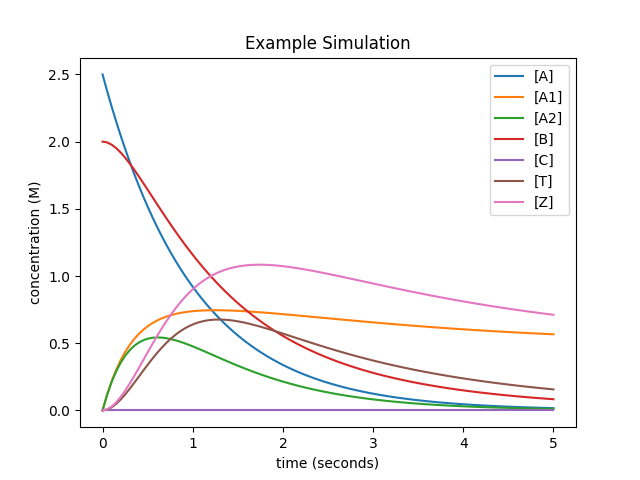
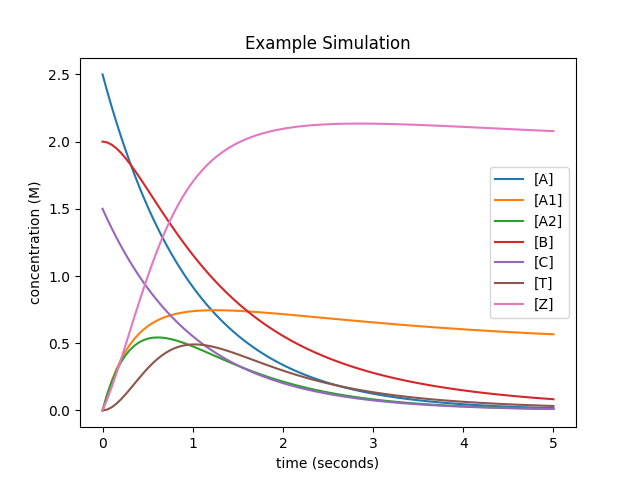
Created proper Species class & refactored
Deprecated Expression.is_species

Moved Expression & Species into reaction.py,
to avoid circular imports

diff --git a/crn/reaction.py b/crn/reaction.py
@@ -24,7 +24,23 @@ class Reaction:
         coeff: float
             The rate constant of the reaction
     """
-    def __init__(self, reactants, products, k):
+    def __init__(self, reactants, products, k=1):
+        if type(reactants) not in (Species, Expression):
+            raise ValueError(
+                "Attempted construction of reaction with type of reactants "
+                f"as {type(reactants)}. Type of reactants must be Species "
+                "or Expression")
+        if type(products) not in (Species, Expression):
+            raise ValueError(
+                "Attempted construction of products with type of products "
+                f"as {type(products)}. Type of products must be Species "
+                "or Expression")
+
+        if type(reactants) is Species:
+            reactants = Expression({reactants.name: 1})
+        if type(products) is Species:
+            products = Expression({products.name: 1})
+
         self.reactants = reactants
         self.products = products
         self.coeff = float(k)
@@ -92,4 +108,141 @@ class Reaction:
 
         return self.coeff * reduce(operator.mul,
                 map(flux_part, self.reactants.species.items()))
+
+
+class Expression:
+    """
+    Class used for very basic symbolic manipulation of left/right hand
+    side of stoichiometric equations. Not very user friendly; users should
+    just use the `species` functions and manipulate those to get their
+    reactions.
+
+    args:
+        species: Dict[str, int]
+            represents species (string names) and their coefficients (ints)
+            all added together.
+
+    properties:
+        species: Dict[str, int]
+            represents species (string names) and their coefficients (ints)
+            all added together. The same as the argument passed to the
+            constructor
+    """
+    def __init__(self, species):
+        self.species = species
+
+    def __add__(self, other):
+        if type(other) is Expression:
+            species_copy = self.species.copy()
+            for s, c in other.species.items():
+                if s not in species_copy:
+                    species_copy[s] = 0
+                species_copy[s] += c
+            return Expression(species_copy)
+
+        return NotImplemented
+
+    def __rmul__(self, coeff):
+        if type(coeff) is int:
+            species_copy = {}
+            for s, c in self.species.items():
+                species_copy[s] = c * coeff
+
+            return Expression(species_copy)
+
+        return NotImplemented
+
+    __mul__ = __rmul__
+
+    def __rshift__(self, expr):
+        return Reaction(self, expr)
+
+    def __str__(self):
+        return ' + '.join(
+                map(lambda i: f"{i[1] if i[1] != 1 else ''}{i[0]}",
+                    self.species.items()))
+
+    def __repr__(self):
+        return ' + '.join(
+                map(lambda i: f"{i[1] if i[1] != 1 else ''}{i[0]}",
+                    self.species.items()))
+
+    def get_species(self):
+        """
+        Returns the names of the species in this expression, not their
+        coefficients.
+        """
+        return set(self.species.keys())
+
+
+class Species:
+    def __init__(self, name):
+        self.name = name
+
+    def __add__(self, other):
+        if type(other) is Expression:
+            return other + Expression({self.name: 1})
+        elif type(other) is Species:
+            return Expression({self.name: 1, other.name: 1})
+
+        return NotImplemented
+
+    def __radd__(self, other):
+        if type(other) is Expression:
+            return other + Expression({self.name: 1})
+        elif type(other) is Species:
+            return Expression({self.name: 1, other.name: 1})
+
+        return NotImplemented
+
+    def __rshift__(self, other):
+        return Reaction(self, other)
+
+    def __mul__(self, other):
+        if type(other) is int:
+            return Expression({self.name: other})
+
+        return NotImplemented
+
+    def __rmul__(self, other):
+        if type(other) is int:
+            return Expression({self.name: other})
+
+        return NotImplemented
+
+    def __repr__(self):
+        return self.name
+
+    def __str__(self):
+        return self.name
+
+def species(species):
+    """
+    Create a list of Species (Single species Expressions).
+
+    args:
+        species: str
+            A space-seperated string representing the names of the species
+            being created
+
+    This is normally used like this:
+
+        x, y, z = species("X Y Z")
+        rxn = x + y >> z
+        ...
+
+    The names MUST be valid Python identifiers: "X0" is valid but "0X" is not.
+
+    The name 'nothing' refers to a Species which will always have a
+    concentration of 1. This is useful for spontaneous decay or creation of
+    species. For example,
+
+        x, y, nothing = species("X Y nothing")
+
+        sys = CRN(
+            x + y >> nothing,
+            nothing >> x,
+            nothing >> y)
+    """
+    return map(Species, species.split())
 

diff --git a/crn/crn.py b/crn/crn.py
@@ -1,6 +1,6 @@
 import numpy as np
 
-from crn import Expression, Simulation
+from crn import Species, Simulation
 from random import random
 from scipy.integrate import odeint
 
@@ -47,14 +47,18 @@ class CRN:
         Returns the symbolic representation for the rate law of species `s`.
 
         args:
-            s: Species
+            s: Union[Species, str]
                 the species whose rate law in the CRN `self` is desired.
+                `s` can either be an instance of the Species object or
+                the string name of the Species.
         """
-        if type(s) is Expression:
-            if not s.is_species():
-                raise ValueError(
-                        "rate_law_for_species called on complex expression")
-            s, *_ = s.species.keys()
+        if type(s) not in (str, Species):
+            raise ValueError("rate_law_for_species called on non-species. "
+                             "parameter must be a species name (str) or a "
+                             "Species instance.")
+
+        if type(s) is Species:
+            s = species.name
 
         return sum(rxn.net_production(s) * rxn.flux() for rxn in self.system)
 
@@ -99,16 +103,13 @@ class CRN:
         conc_temp = {}
 
         for s, c in conc.items():
-            if type(s) is Expression:
-                if not s.is_species():
-                    raise ValueError("concentrations must only be for "
-                            "species, not complex expressions")
-                s, *_ = s.species.keys()
+            if type(s) not in (str, Species):
+                raise ValueError("CRN.simulate: initial concentrations "
+                                 f"dictionary got a key with type {type(s)}. "
+                                 "Key type should be Species or str.")
 
-            elif type(s) is not str:
-                raise ValueError(
-                    "concentrations must have key type 'str' or 'Expression'"
-                    f" not '{type(s)}'")
+            if type(s) is Species:
+                s = s.name
 
             conc_temp[s] = c
 

diff --git a/crn/simulation.py b/crn/simulation.py
@@ -1,4 +1,4 @@
-from crn import Expression
+from crn import Species
 
 class Simulation:
     """
@@ -22,12 +22,14 @@ class Simulation:
         self.sim = sim
 
     def __getitem__(self, s):
-        if type(s) is Expression:
-            if not s.is_species():
-                raise ValueError(
-                        "can't get simulation time series of complex "
-                        f"expression {item}")
-            s, *_ = s.species.keys()
+        if type(s) not in (str, Species):
+            raise ValueError(
+                "Simulation.__getitem__: tried to get item of non-species. "
+                "Type of key must be Species or str. The type of the key "
+                f"passed was {type(s)}")
+
+        if type(s) is Species:
+            s = s.name
 
         return self.sim[s]
 

diff --git a/crn/examples/basic_example.py b/crn/examples/basic_example.py
@@ -28,7 +28,7 @@ sys = CRN(
 # concentrations that are omitted are assumed to be zero
 # t is an optional parameter for how far to carry out the simulation.
 # if it is omitted, it's defaulted to 20.
-sim = sys.simulate({a: 2.5, b: 2.0}, t=5)
+sim = sys.simulate({a: 2.5, b: 2.0, c: 1.5}, t=5)
 
 # you can access the specific time series of each species by accessing
 # `sim` like you would a dictionary

diff --git a/crn/__init__.py b/crn/__init__.py
@@ -1,8 +1,6 @@
 __all__ = ["species", "CRN"]
 
 from crn.reaction import *
-from crn.expression import *
 from crn.simulation import *
 from crn.crn import *
-from crn.funcs import *
 
